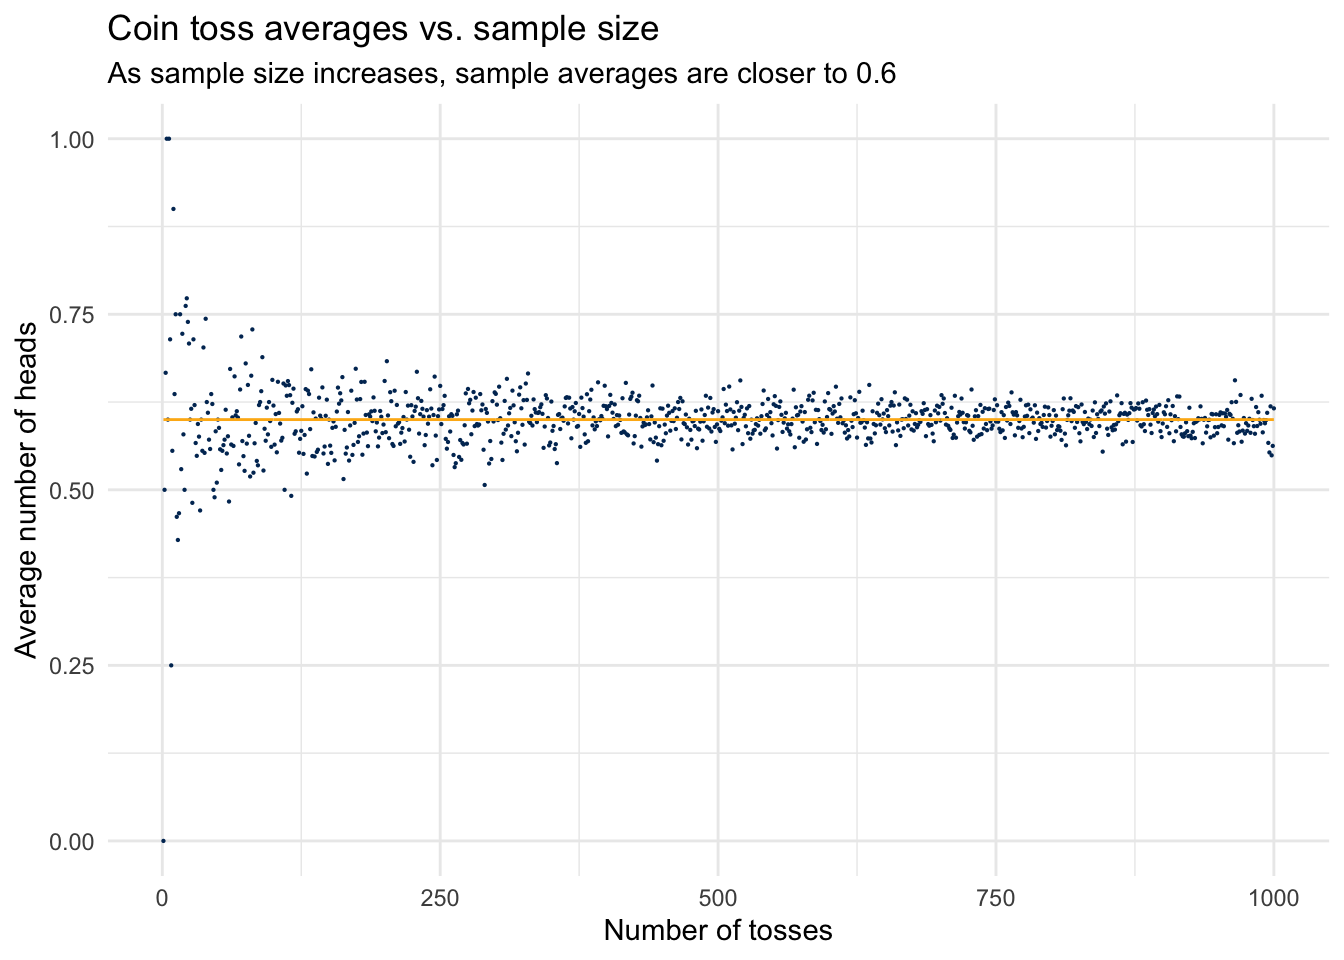
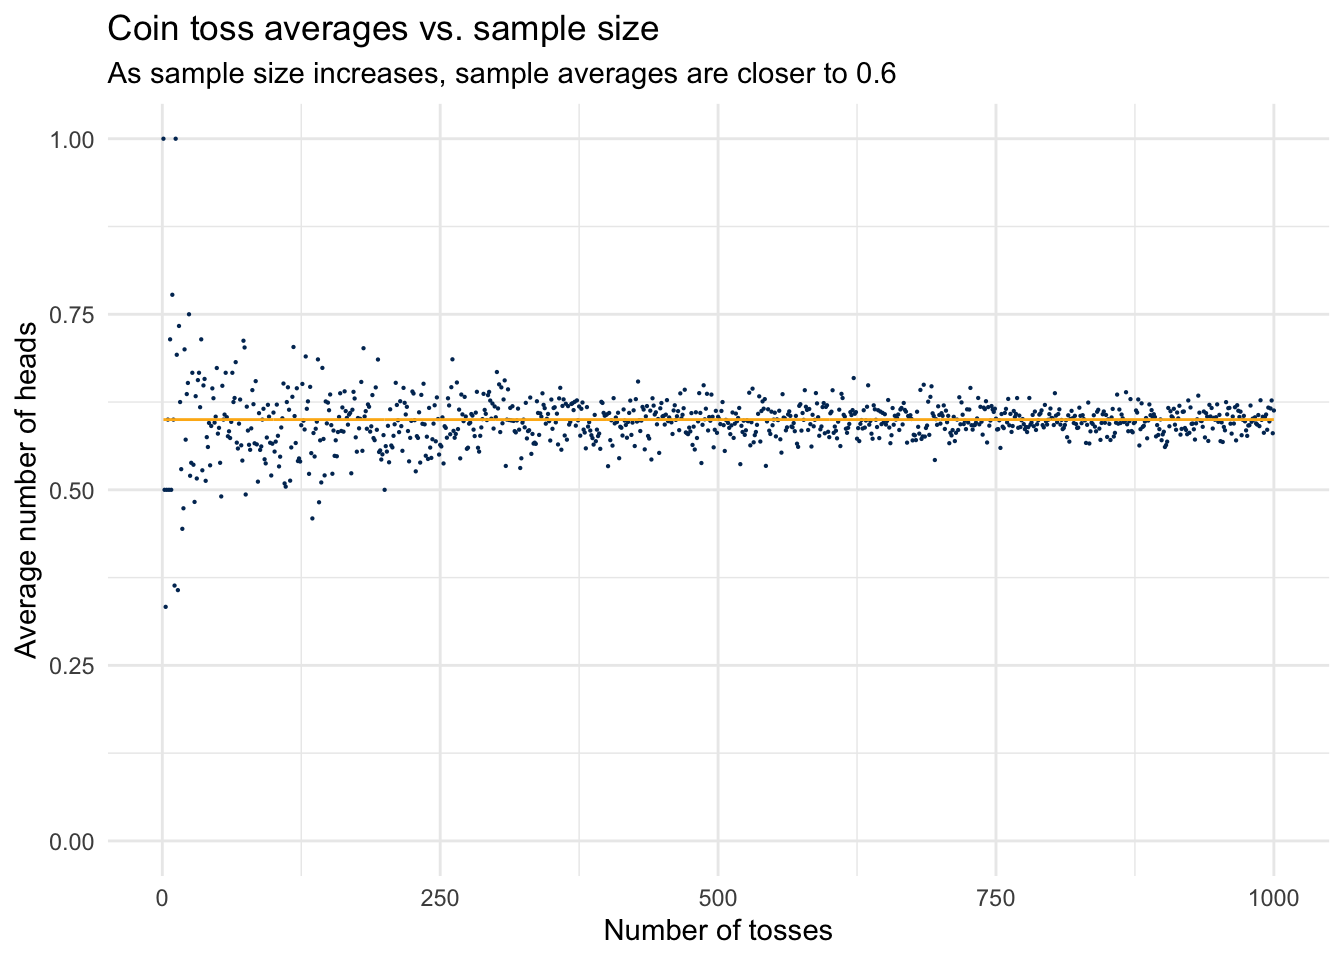
includes v\overline x

Changed region(s): [[0.125, 0.375, 0.9688, 0.5], [0.125, 0.3125, 0.1562, 0.375]]

diff --git a/unit_05/weak-law-of-large-numbers.html b/unit_05/weak-law-of-large-numbers.html
@@ -191,15 +191,15 @@ code span.wa { color: #60a0b0; font-weight: bold; font-style: italic; } /* Warni
 <span id="cb2-2"><a href="#cb2-2" aria-hidden="true" tabindex="-1"></a><span class="fu">toss_coin</span>(<span class="at">times=</span><span class="dv">1</span>, <span class="at">coins=</span><span class="dv">1</span>, <span class="at">prob_of_heads =</span> <span class="fl">0.6</span>)</span>
 <span id="cb2-3"><a href="#cb2-3" aria-hidden="true" tabindex="-1"></a><span class="fu">toss_coin</span>(<span class="at">times=</span><span class="dv">1</span>, <span class="at">coins=</span><span class="dv">1</span>, <span class="at">prob_of_heads =</span> <span class="fl">0.6</span>)</span>
 <span id="cb2-4"><a href="#cb2-4" aria-hidden="true" tabindex="-1"></a><span class="fu">toss_coin</span>(<span class="at">times=</span><span class="dv">1</span>, <span class="at">coins=</span><span class="dv">1</span>, <span class="at">prob_of_heads =</span> <span class="fl">0.6</span>)</span></code></pre></div>
-<pre><code>## [1] 1
+<pre><code>## [1] 0
 ## [1] 1
-## [1] 1
+## [1] 0
 ## [1] 0</code></pre>
 <p>Suppose that we wanted to toss more than one coin? It would, obviously get pretty cumbersome if we had to issue this <code>toss_coin(times=1, coins=1)</code> command say, 1000 times. Lucky for us, we’ve written the function so that it generalizes to more coins! To toss ten coins, we can call for <code>toss_coin(times=1, coins=10)</code>, and for a million, <code>toss_coin(times=1, coins=1e6)</code>.</p>
 <div class="sourceCode" id="cb4"><pre class="sourceCode r"><code class="sourceCode r"><span id="cb4-1"><a href="#cb4-1" aria-hidden="true" tabindex="-1"></a><span class="fu">toss_coin</span>(<span class="at">times=</span><span class="dv">1</span>, <span class="at">coins=</span><span class="dv">10</span>, <span class="at">prob_of_heads=</span><span class="fl">0.6</span>)</span>
 <span id="cb4-2"><a href="#cb4-2" aria-hidden="true" tabindex="-1"></a><span class="fu">toss_coin</span>(<span class="at">times=</span><span class="dv">10</span>, <span class="at">coins=</span><span class="dv">1</span>, <span class="at">prob_of_heads=</span><span class="fl">0.6</span>)</span></code></pre></div>
-<pre><code>## [1] 5
-##  [1] 1 1 0 0 0 1 0 1 0 0</code></pre>
+<pre><code>## [1] 4
+##  [1] 0 1 1 1 1 1 0 1 0 1</code></pre>
 <p>Notice that if we increase the number of <code>times</code> it is like tossing the same coin a larger number of times; and if we increase the number of coins, it is like increaseing the number of coins that we are tossing at any single time. These actually have the same interpretation, since all the tosses are independent of all the other tosses, but it <em>does</em> change the way the data is represented to us.</p>
 </div>
 <div id="tossing-more-coins" class="section level2" number="1.3">
@@ -235,12 +235,12 @@ code span.wa { color: #60a0b0; font-weight: bold; font-style: italic; } /* Warni
 <p>We can view the first six rows of this data by calling for the <code>head()</code> of the dataframe, and see that things seem sensible.</p>
 <div class="sourceCode" id="cb9"><pre class="sourceCode r"><code class="sourceCode r"><span id="cb9-1"><a href="#cb9-1" aria-hidden="true" tabindex="-1"></a><span class="fu">head</span>(toss_data)</span></code></pre></div>
 <pre><code>##   id coins heads   average
-## 1  1     1     0 0.0000000
+## 1  1     1     1 1.0000000
 ## 2  2     2     1 0.5000000
-## 3  3     3     2 0.6666667
-## 4  4     4     4 1.0000000
+## 3  3     3     1 0.3333333
+## 4  4     4     2 0.5000000
 ## 5  5     5     3 0.6000000
-## 6  6     6     6 1.0000000</code></pre>
+## 6  6     6     3 0.5000000</code></pre>
 <p>But, simply looking at the rows of data isn’t presenting this data in its most compelling way. Instead, this is absolutely the place for a plot.</p>
 <div class="sourceCode" id="cb11"><pre class="sourceCode r"><code class="sourceCode r"><span id="cb11-1"><a href="#cb11-1" aria-hidden="true" tabindex="-1"></a>toss_data <span class="sc">%&gt;%</span> </span>
 <span id="cb11-2"><a href="#cb11-2" aria-hidden="true" tabindex="-1"></a>  <span class="fu">ggplot</span>() <span class="sc">+</span> </span>
@@ -343,8 +343,20 @@ code span.wa { color: #60a0b0; font-weight: bold; font-style: italic; } /* Warni
 </div>
 <div id="chevyshev-inequlaity-for-the-sample-average" class="section level2" number="1.8">
 <h2><span class="header-section-number">1.8</span> Chevyshev Inequlaity for the Sample Average</h2>
-<p>The sample average, <span class="math inline">\(\overline{X}\)</span>, is a random variable – it is simply a summarising function of <span class="math inline">\(X\)</span> which is itself a random variable. Because of this, we can rewrite the classic statement of the Chevyshev inequality, just with a different (but known) statement of its sampling variance.</p>
-<p>Note, that the sampling variance for <span class="math inline">\(\overline{X}\)</span>, <span class="math inline">\(V[\overline{X}] = \frac{V[X]}{n}\)</span>, which was proven just before the statement of Chebyshev’s Inequality for the Sample Mean in the book. Then, using the definition and notation for standard deviation, we can write:</p>
+<p>The sample average, <span class="math inline">\(\overline{X}\)</span>, is a random variable – it is simply a summarizing function of <span class="math inline">\(X\)</span> which is itself a random variable. Because of this, we can rewrite the classic statement of the Chevyshev inequality, just with a different (but known) statement of its sampling variance.</p>
+<p>Note, that the sampling variance for <span class="math inline">\(\overline{X}\)</span>, <span class="math inline">\(V[\overline{X}] = \frac{V[X]}{n}\)</span>, which was proven just before the statement of Chebyshev’s Inequality for the Sample Mean in the book.</p>
+<p>In case you don’t remember that statement, it looks something like this:</p>
+<p><span class="math display">\[
+\begin{aligned} 
+  V[\overline{X}] &amp;= V\left[\frac{1}{n} \sum_{i=1}^{n} X_{i}\right] \\ 
+    &amp;= \frac{1}{n^2}\  V \left[ \sum_{i=1}^{n} X_{i}\right] &amp; (\text{variance properties})\\ 
+    &amp;= \frac{1}{n^2} \sum_{i=1}^{n} V[X_{i}] &amp; (\text{independent samples}) \\ 
+    &amp;= \frac{1}{n^2} \sum_{i=1}^{n} V[X] &amp; (\text{identical distribution}) \\ 
+    &amp;= \frac{n}{n^2} V[X] &amp; (\text{sum properties}) \\
+    &amp;= \frac{1}{n} V[X]
+\end{aligned}   
+\]</span></p>
+<p>Then, using the definition and notation for standard deviation, we can write:</p>
 <p><span class="math display">\[
   \begin{aligned}
       Pr\big[\left|X - E[X] \right| \geq \epsilon\sigma[X]  \big] &amp; \leq \frac{1}{\epsilon^2} \\
@@ -422,7 +434,7 @@ P\left[|\overline{X} - E[X] | \geq 0.01 \right] \leq \frac{.24}{0.01n}
 <div class="sourceCode" id="cb14"><pre class="sourceCode r"><code class="sourceCode r"><span id="cb14-1"><a href="#cb14-1" aria-hidden="true" tabindex="-1"></a>one_thousand_samples <span class="ot">&lt;-</span> <span class="fu">rbinom</span>(<span class="at">n=</span><span class="dv">100000</span>, <span class="at">size=</span><span class="dv">1000</span>, <span class="at">prob=</span><span class="fl">0.6</span>) <span class="sc">/</span> <span class="dv">1000</span></span>
 <span id="cb14-2"><a href="#cb14-2" aria-hidden="true" tabindex="-1"></a>probs <span class="ot">&lt;-</span> <span class="fu">mean</span>(one_thousand_samples <span class="sc">&lt;=</span> <span class="fl">0.56</span>) <span class="sc">+</span> <span class="fu">mean</span>(one_thousand_samples <span class="sc">&gt;=</span> <span class="fl">0.64</span>)</span>
 <span id="cb14-3"><a href="#cb14-3" aria-hidden="true" tabindex="-1"></a>probs</span></code></pre></div>
-<pre><code>## [1] 0.01056</code></pre>
+<pre><code>## [1] 0.01046</code></pre>
 <p>We interpret this in the following way:</p>
 <ul>
 <li>The Chebyshev Inequality for the sample average says that the probability of getting a sample average that is more than <span class="math inline">\(0.04\)</span> away from the true population expectation of <span class="math inline">\(0.60\)</span> is <span class="math inline">\(0.15\)</span>, or <span class="math inline">\(15\%\)</span>. This is a nice guarantee to have, and one that exists no matter the distribution of the random variable.</li>
@@ -462,11 +474,11 @@ P\left[|\overline{X} - E[X] | \geq 0.01 \right] \leq \frac{.24}{0.01n}
 <p>To evaluate this guarantee, again simulate a series of draws with eight coins being tossed.</p>
 <div class="sourceCode" id="cb16"><pre class="sourceCode r"><code class="sourceCode r"><span id="cb16-1"><a href="#cb16-1" aria-hidden="true" tabindex="-1"></a>thirty_tosses <span class="ot">&lt;-</span> <span class="fu">rbinom</span>(<span class="at">n=</span><span class="dv">10000</span>, <span class="at">size =</span> <span class="dv">30</span>, <span class="at">prob =</span> <span class="fl">0.6</span>) <span class="sc">/</span> <span class="dv">30</span></span>
 <span id="cb16-2"><a href="#cb16-2" aria-hidden="true" tabindex="-1"></a><span class="fu">mean</span>(thirty_tosses <span class="sc">&lt;</span> <span class="fl">0.8</span>) <span class="sc">-</span> <span class="fu">mean</span>(thirty_tosses <span class="sc">&lt;</span> <span class="fl">0.4</span>)</span></code></pre></div>
-<pre><code>## [1] 0.974</code></pre>
+<pre><code>## [1] 0.9749</code></pre>
 <p>We see that Chebyshev is actually requiring us to take more samples than are actually necessary, if we knew the actual Bernoulli distribution that underlies the data generating process. Indeed, after a little bit of trial and error, I was able to figure out that about nine samples is enough data to provide this guarantee.</p>
 <div class="sourceCode" id="cb18"><pre class="sourceCode r"><code class="sourceCode r"><span id="cb18-1"><a href="#cb18-1" aria-hidden="true" tabindex="-1"></a>nine_tosses <span class="ot">&lt;-</span> <span class="fu">rbinom</span>(<span class="at">n=</span><span class="dv">10000</span>, <span class="at">size =</span> <span class="dv">9</span>, <span class="at">prob =</span> <span class="fl">0.6</span>) <span class="sc">/</span> <span class="dv">9</span></span>
 <span id="cb18-2"><a href="#cb18-2" aria-hidden="true" tabindex="-1"></a><span class="fu">mean</span>(nine_tosses <span class="sc">&lt;</span> <span class="fl">0.8</span>) <span class="sc">-</span> <span class="fu">mean</span>(nine_tosses <span class="sc">&lt;</span> <span class="fl">0.4</span>)</span></code></pre></div>
-<pre><code>## [1] 0.8317</code></pre>
+<pre><code>## [1] 0.8286</code></pre>
 </div>
 </div>
             </section>
